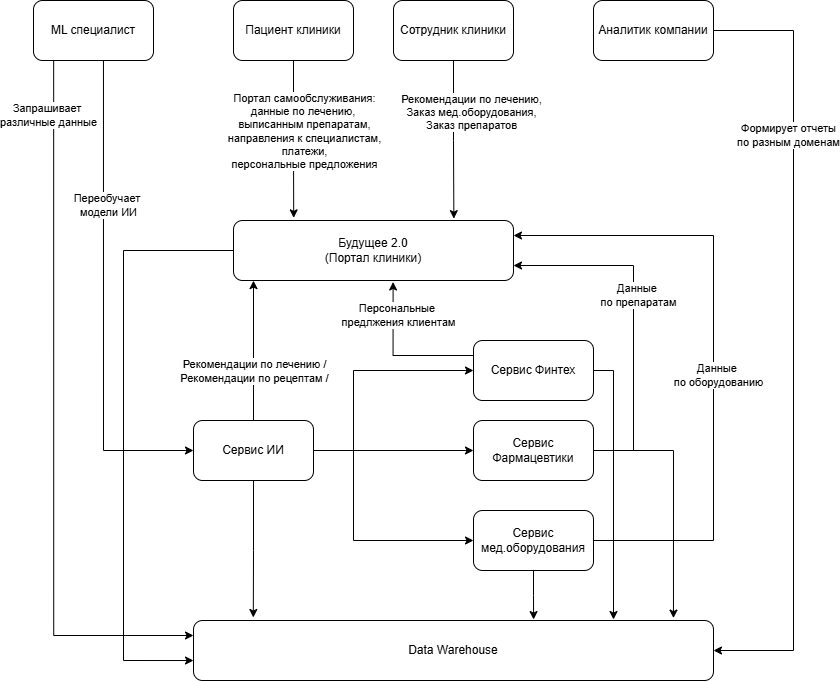
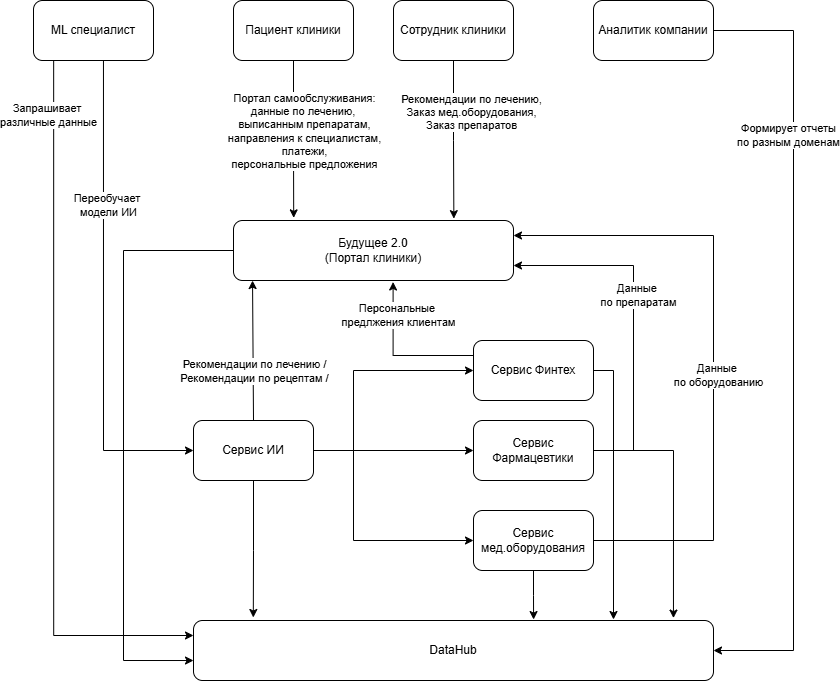
Fixes based on review

diff --git a/Task1/README.md b/Task1/README.md
@@ -11,6 +11,12 @@
 [Архитектура системы через год](./C4-model-schema.drawio)
 ![Архитектура системы через год](./C4-model-schema.png)
 
+**Пояснение** 
+- В новой архитектуре используем подход DataMesh через DataHub реализацию, у которой есть свой метод загрузки данных (AirFlow), а также своя клиентская часть.
+- Мы также оставляем старую систему DWH на период миграции и стабилизации нового каталога данных.
+- Интеграционную шину обновим, используя более современный брокер сообщений, например Apache Kafka.
+- Схема сделана на уровне контекста, но более детально указаны новый каталог сообщений, шина данных и сервис Будущее 2.0.
+
 ## Проблемные места
 
 - **Производительность.** Уже сейчас нужную отчётность сложно построить за разумное время (очень много данных (сотни терабайт) и вариантов их использования.). При подключении новых сервисов, новых организаций, текущая система и БД не сможет справиться с нагрузкой.
@@ -36,4 +42,4 @@
     - Провести инветаризацию всех жизенных циклов данных в компании и обновить документацию по ним.
 
 - **Could have**
-    - Обновить стек технологий.
+    - Обновить стек технологий. Например, MS SQL 2008, Apache Camel.

diff --git a/Task2/README.md b/Task2/README.md
@@ -26,3 +26,7 @@
 
 [Потоки данных между доменами](./Data-flow-schema.drawio)
 ![Потоки данных между доменами](./Data-flow-schema.png)
+
+
+**Пояснение**
+- Для упрощения схемы потоков данных, здесь отстуствуют детали реализации интеграций между различными сервисами. Например, нет интеграционной шины данных. Поток данных направлен сразу в каталог данных DataHub.